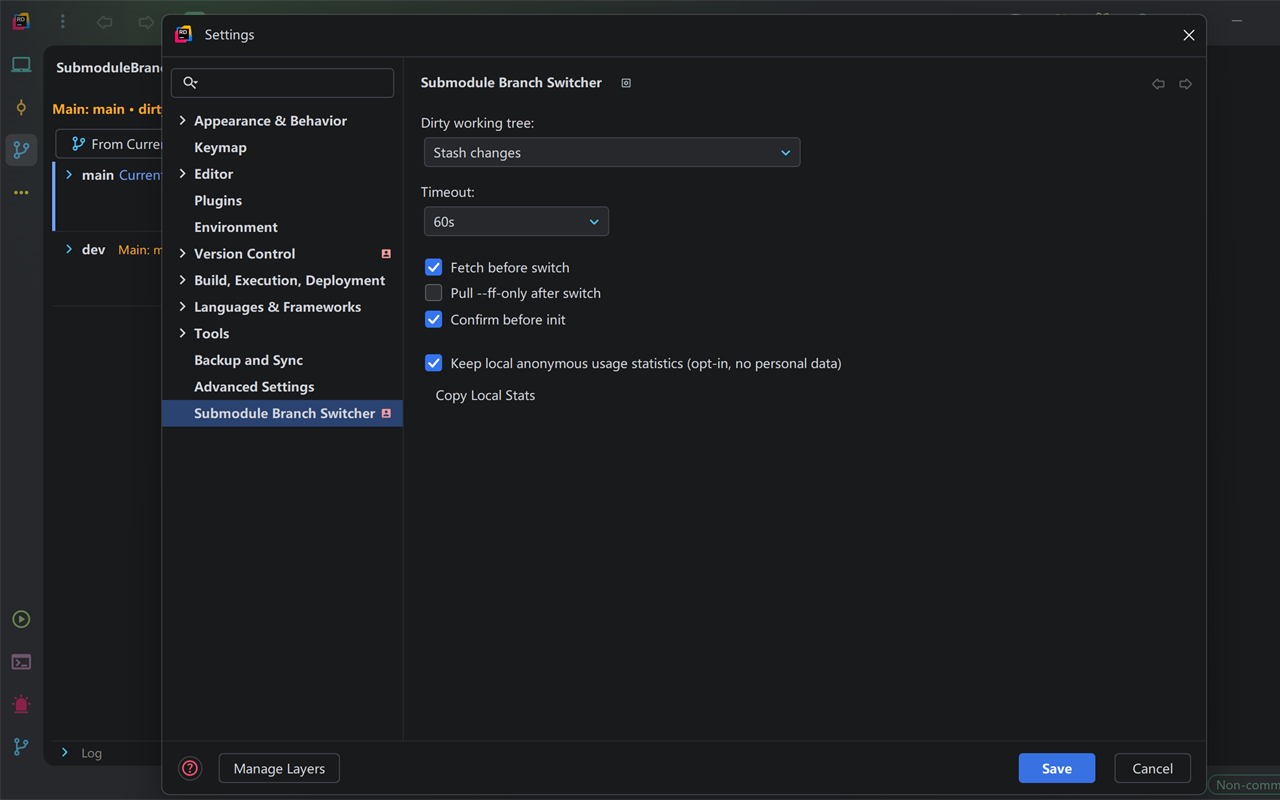
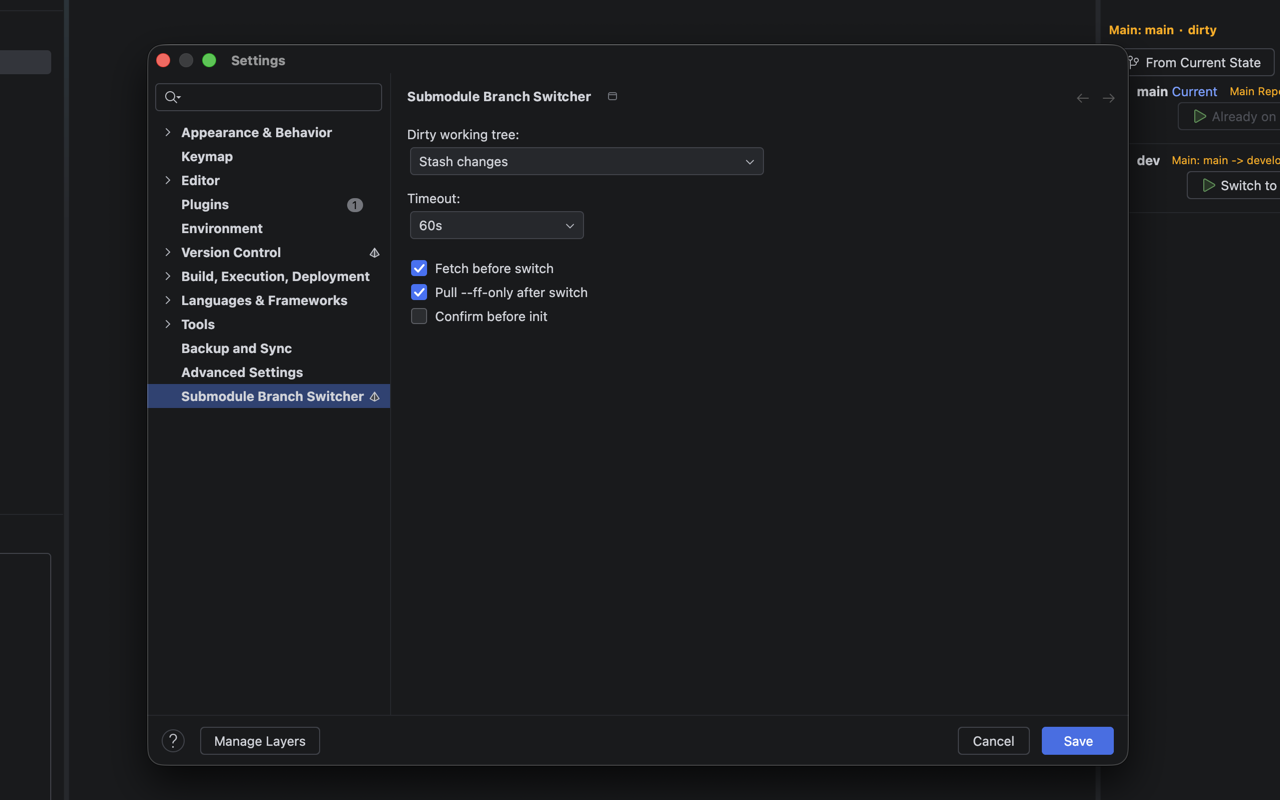
docs: refresh project documentation and screenshots

diff --git a/README.zh-CN.md b/README.zh-CN.md
@@ -5,7 +5,7 @@
 **Submodule Branch Switcher 是一个 JetBrains IDE 插件，用来一键把主仓库和所有子模块切换到预设的分支组合。**
 
 ![version](https://img.shields.io/badge/version-0.7.0-blue)
-![tests](https://img.shields.io/badge/tests-279-green)
+![tests](https://img.shields.io/badge/tests-290-green)
 ![JetBrains](https://img.shields.io/badge/JetBrains-2026.1-blue)
 
 它适合这类项目：一个主仓库下挂着多个 Git 子模块，日常需要在 `main`、`develop`、发布分支、功能分支之间整组切换。你可以把每组分支保存成 preset，然后在 Tool Window 里直接切换。
@@ -41,16 +41,6 @@ preset 存在 `.idea/branch-presets.json`，可以随项目提交，让团队成
 | Rider | 兼容验证目标 | `plugin.verifier.ideCodes=RD` 覆盖；发布前保留 Rider 沙箱手工冒烟。 |
 | IntelliJ IDEA Ultimate | 预期兼容 | 使用同一套 Platform + Git API，但暂未列为主要 verifier 目标。 |
 | PyCharm / WebStorm / CLion | 暂不宣称支持 | 宣传 Marketplace 支持前，需要增加 verifier codes 和手工冒烟证据。 |
-
-默认开发 SDK：
-
-```properties
-platform.type=IC
-platform.version=2026.1.3
-plugin.sinceBuild=261
-plugin.untilBuild=261.*
-plugin.verifier.ideCodes=RD
-```
 
 ## 安装
 
@@ -110,51 +100,8 @@ build/distributions/submodule-branch-switcher-0.7.0.zip
 | Pull after switch | 开启 | 切换后执行 `git pull --ff-only`。 |
 | Confirm before init | 关闭 | 初始化缺失子模块前先确认。 |
 
-## 开发与验证
+## 参与开发
 
-```bash
-# clone 后启用本地 hooks
-git config core.hooksPath .githooks
-
-# 快速结构检查
-./gradlew quickCheck
-
-# core 纯 JVM 测试
-./gradlew pureTest
-
-# 平台/集成测试
-./gradlew test
-
-# 构建插件 ZIP
-./gradlew buildPlugin
-
-# 启动带插件的沙箱 IDE
-./gradlew runIde
-```
-
-日常开发优先跑轻量检查：
-
-```bash
-./gradlew quickCheck
-./gradlew :core:test --tests "<ClassOrMethod>" --max-workers=1 --no-parallel
-./gradlew test --tests "<ClassOrMethod>" --max-workers=2 --no-parallel
-```
-
-发布前再跑完整检查：
-
-```bash
-./gradlew :core:test test :core:detekt detekt --max-workers=2 --no-parallel
-./gradlew releaseCheck
-```
-
-手动重型诊断：
-
-```bash
-# 大仓真实耗时基准
-./gradlew benchmark
-
-# 范围化变异测试
-./gradlew pitestCore
-```
-
-`benchmark` 和 `pitestCore` 不进入普通 `test` 或 `releaseCheck`。
+本地环境、架构边界、验证方式和审查约定见
+[CONTRIBUTING.md](CONTRIBUTING.md)。日常开发可直接运行
+`./gradlew runIde` 启动带插件的沙箱 IDE。

diff --git a/README.md b/README.md
@@ -42,16 +42,6 @@ The plugin uses IntelliJ Platform APIs plus the bundled `Git4Idea` plugin.
 | IntelliJ IDEA Ultimate | Expected compatible | Same platform + Git APIs, but not listed as a primary verifier target yet. |
 | PyCharm / WebStorm / CLion | Not claimed yet | Add verifier codes and manual smoke checks before Marketplace support is advertised. |
 
-Default development SDK:
-
-```properties
-platform.type=IC
-platform.version=2026.1.3
-plugin.sinceBuild=261
-plugin.untilBuild=261.*
-plugin.verifier.ideCodes=RD
-```
-
 ## Install
 
 Marketplace publication is planned later. For now, install from disk:
@@ -110,54 +100,8 @@ Configure global behavior at `Settings | Version Control | Submodule Branch Swit
 | Pull after switch | On | Run `git pull --ff-only` after checkout. |
 | Confirm before init | Off | Ask before initializing missing submodule directories. |
 
-## Development
+## Contributing
 
-See [CONTRIBUTING.md](CONTRIBUTING.md) for the development environment,
-architecture boundaries, validation levels, and review conventions.
-
-```bash
-# Enable local hooks once after clone
-git config core.hooksPath .githooks
-
-# Fast structural checks
-./gradlew quickCheck
-
-# Core pure JVM tests
-./gradlew pureTest
-
-# Platform/integration tests
-./gradlew test
-
-# Build plugin zip
-./gradlew buildPlugin
-
-# Launch sandbox IDE with the plugin installed
-./gradlew runIde
-```
-
-Use low-load validation during normal development:
-
-```bash
-./gradlew quickCheck
-./gradlew :core:test --tests "<ClassOrMethod>" --max-workers=1 --no-parallel
-./gradlew test --tests "<ClassOrMethod>" --max-workers=2 --no-parallel
-```
-
-Before broad changes or release preparation:
-
-```bash
-./gradlew :core:test test :core:detekt detekt --max-workers=2 --no-parallel
-./gradlew releaseCheck
-```
-
-Manual heavy diagnostics:
-
-```bash
-# Large-repo wall-clock benchmark
-./gradlew benchmark
-
-# Scoped mutation testing
-./gradlew pitestCore
-```
-
-`benchmark` and `pitestCore` are intentionally not part of normal `test` or `releaseCheck`.
+For local setup, architecture boundaries, validation, and review conventions,
+see [CONTRIBUTING.md](CONTRIBUTING.md). The usual local development loop is
+`./gradlew runIde`.

diff --git a/CONTRIBUTING.md b/CONTRIBUTING.md
@@ -15,6 +15,8 @@ submodules to a saved branch preset.
   property tests; benchmark excluded)
 
 Use JDK 21. The Gradle build configures the Kotlin toolchain accordingly.
+The default SDK configuration is in `gradle.properties` (`platform.type=IC`,
+`platform.version=2026.1.3`); use `platform.localPath` for a local IDE install.
 
 ## Architecture
 
